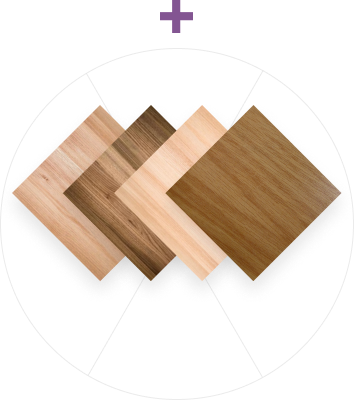
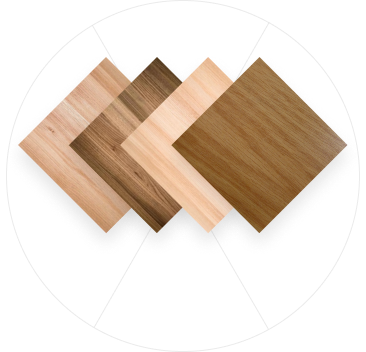
Intor mobile all fix

diff --git a/wp-content/themes/monta/assets/css/responsive.css b/wp-content/themes/monta/assets/css/responsive.css
@@ -184,19 +184,22 @@
 @media only screen and (max-width: 767px) {
 	h1.heading-1 {
 		font-size: 64px;
-		margin-bottom: 10px;
+		font-weight: 400;
 	}
 
 	h2.heading-2 {
 		font-size: 32px;
+		font-weight: 400;
 	}
 
 	h3.heading-3 {
 		font-size: 20px;
+		font-weight: 400;
 	}
 
 	h4.heading-4 {
 		font-size: 20px;
+		font-weight: 400;
 	}
 
 	.section-title {
@@ -271,22 +274,55 @@
 		padding: 50px 0 20px;
 	}
 
+	.intro-section .section-title {
+	  margin-bottom: 59px;
+	}
+
 	.intro-section .intro-box {
-		margin-bottom: 40px;
+		margin-bottom: 0;
+	}
+
+	.intro-section .intro-box .plus-icon {
+		margin-bottom: 20px;
+	}
+
+	.intro-section .intro-box .equal-icon {
+		margin-top: -45px;
 	}
 
 	.intro-section .intro-item {
-		margin-bottom: 20px;
+		margin-bottom: 0;
 		text-align: center;
-		min-height: 380px;
 		max-width: 350px;
 		width: 100%;
 		margin-left: auto;
 		margin-right: auto;
-		display: flex;
-		justify-content: center;
-		align-content: center;
-		flex-direction: column;
+	}
+
+	.intro-section .intro-item.item-1 {
+		min-height: 419px;
+	}
+
+	.intro-section .intro-item.item-2 {
+		min-height: 336px;
+	}
+
+
+	.intro-section .intro-item.item-3 {
+		min-height: 350px;
+		margin-top: -12px;
+	}
+
+	.intro-section .intro-item.item-1 .text-box {
+		padding-top: 60px;
+	}
+
+	.intro-section .intro-item.item-2 .text-box {
+		padding-top: 35px;
+	}
+
+	.intro-section .intro-item.item-3 .text-box {
+		padding-top: 75px;
 	}
 
 	.intro-section .intro-box .col-md-4 .intro-item:nth-child(2) {
@@ -296,11 +332,29 @@
 	.intro-section .intro-item h4.heading-4 {
 		max-width: 350px;
 		width: 100%;
-		margin: -40px auto 0;
+		margin-bottom: 0;
+	}
+
+	.intro-section .intro-item.item-1 h4.heading-4 {
+		margin-top: -35px;
+	}
+
+	.intro-section .intro-item.item-2 h4.heading-4 {
+		margin-top: -100px;
+	}
+
+	.intro-section .intro-item.item-3 h4.heading-4 {
+		margin-top: -90px;
 	}
 
 	.intro-section .intro-item .text-box {
 		display: none;
+		max-width: 300px;
+		margin: 0 auto;
+	}
+
+	.intro-section .intro-item a.link {
+		text-align: right;
 	}
 
 	.features-box .feature-item.item-2,
@@ -315,6 +369,11 @@
 		border: none !important;
 		padding: 0;
 		height: 80px;
+	}
+
+	.features-box .feature-item p {
+		max-width: 250px;
+		width: 100%;
 	}
 
 	.features-box .feature-item:hover p {
@@ -375,6 +434,10 @@
 	.features-box .feature-item.item-4:hover {
 		background: initial;
 		z-index: initial;
+	}
+
+	.features-box .feature-item h4.heading-4 {
+		font-size: 24px;
 	}
 
 	.product-section {

diff --git a/wp-content/themes/monta/template-home.php b/wp-content/themes/monta/template-home.php
@@ -101,7 +101,7 @@ get_header(); ?>
 
 <!-- Intro Section Start -->
 <section class="intro-section">
-   <img src="<?php echo get_template_directory_uri(); ?>/assets/img/icons/polygon.svg" class="polygon" alt="">
+   <img src="<?php echo get_template_directory_uri(); ?>/assets/img/icons/polygon.svg" class="polygon d-none d-md-block" alt="">
    <img src="<?php echo get_template_directory_uri(); ?>/assets/img/icons/ellipse.svg" class="ellipse d-none d-md-block" alt="">
 
    <div class="container">
@@ -131,9 +131,13 @@ get_header(); ?>
                   </div>
                   <div class="text-box">
                      <p>Dentro de cada tubo, tudo o que você precisa para montar o móvel. Projeto de furação para colocar sobre cada peça de madeira com a posição de cada furo. As tampas se juntam e formam um gabarito que garantirá furos perfeitos e precisos. Cavilhas, parafusos, minifix,...já incluídos você só precisará dos itens que não fazem parte do móvel como parafusadeira com broca 8mm, chave alen 6 e pouco mais. A partir daqui, falta escolher as chapas</p>
-                     <a href="#" class="link">Catálogo <img src="<?php echo get_template_directory_uri(); ?>/assets/img/icons/arrow-right.svg" class="icon-right" alt=""></a>
+                     <a href="#" class="link  d-none d-md-block">Catálogo <img src="<?php echo get_template_directory_uri(); ?>/assets/img/icons/arrow-right.svg" class="icon-right" alt=""></a>
                   </div>
                </div>
+            </div>
+
+            <div class="plus-icon d-md-none text-center">
+               <img src="<?php echo get_template_directory_uri(); ?>/assets/img/icons/plus.png" alt="">
             </div>
 
             <div class="col-md-4">
@@ -148,15 +152,19 @@ get_header(); ?>
                   </div>
                </div>
 
-               <div class="intro-item item-3">
+               <div class="intro-item">
                   <h4 class="heading-4">como assim?</h4>
                   <p>Postamos no nosso canal de <a href="#">YouTube</a> cada detalhe da montagem dos modelos. De como colar uma cavilha até dicas de acabamento e muito mais</p>
                   <a href="#" class="link">Mais <img src="<?php echo get_template_directory_uri(); ?>/assets/img/icons/arrow-right.svg" class="icon-right" alt=""></a>
                </div>
             </div>
 
+            <div class="equal-icon d-md-none text-center">
+               <img src="<?php echo get_template_directory_uri(); ?>/assets/img/icons/equal.png" alt="">
+            </div>
+
             <div class="col-md-4">
-               <div class="intro-item">
+               <div class="intro-item item-3">
                   <div class="image-mobile">
                      <img src="<?php echo get_template_directory_uri(); ?>/assets/img/intro/mobile-3.png" class="d-md-none" alt="">
                      <h4 class="heading-4">Mais lindo ainda!</h4>
